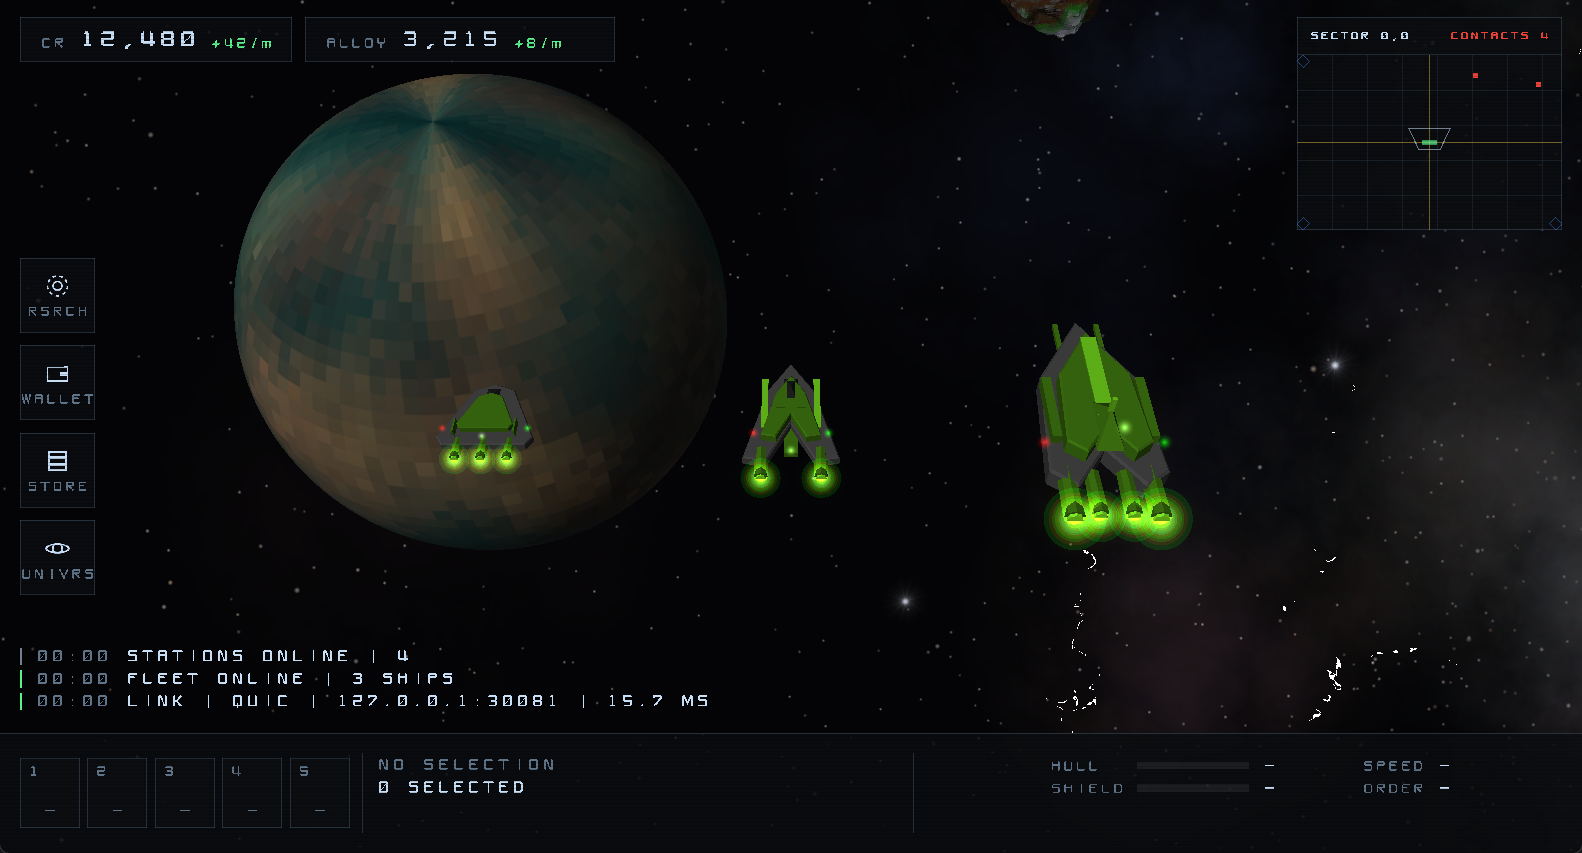
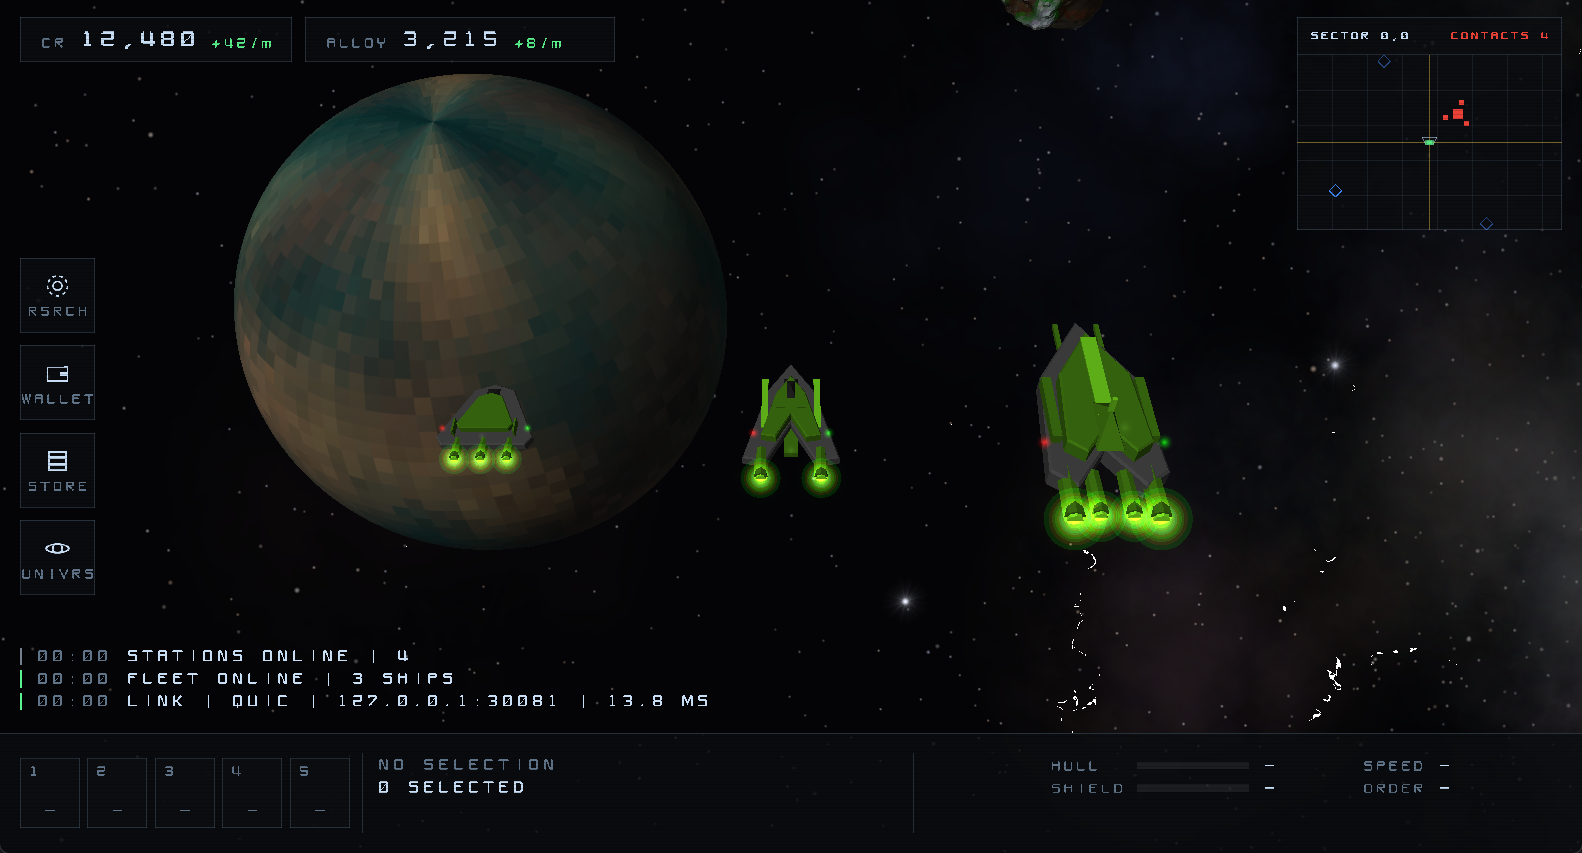
Stations slice 5: the minimap holds the nearest Vanguard station
HUD_MINIMAP_HALF_RANGE 1 400 -> 4 000 m, by the owner's ask on review: a station the player is
meant to fly to should read on the map as a distance, not only as a direction clamped to an edge.
The work order, the slice plan and AGENTS.md record it; the boot screenshots are re-shot.

diff --git a/Outpost/ViewTuning.h b/Outpost/ViewTuning.h
@@ -404,7 +404,7 @@ inline constexpr float START_SPACING = 55.0f;
 
 // The hostile base and its patrol (Design/Archive/Hostiles.md 6). The station sits 1,202 m out on the
 // diagonal: inside the 2,000 m interest radius, so the base is subscribed from the first update and
-// the overview shows red immediately, and inside the minimap's 1,400 m half-range, so it has an edge
+// the overview shows red immediately, and well inside the minimap's half-range, so it has an edge
 // to be seen against. The farthest patrol point is 1,602 m out, still inside both.
 //
 // The ring clears the station's 251.77 m skin by 148 m, and its chords clear the station's center by
@@ -477,7 +477,16 @@ inline constexpr float HUD_MINIMAP_DOT_PX = 4.0f;
 // A structure reads bigger than a fighter without pretending to scale: to scale, a 500 m station is
 // 25 px, a quarter of the map for one base. Iconography beats cartography at 0.05 px per metre.
 inline constexpr float HUD_MINIMAP_STRUCTURE_DOT_PX = 8.0f;
-inline constexpr float HUD_MINIMAP_HALF_RANGE = 1400.0f; // metres from the camera target to the map's edge; wider than CAMERA_MAX_ZOOM sees
+// Metres from the camera target to the map's edge. It was 1 400 -- wider than CAMERA_MAX_ZOOM sees,
+// and enough to hold the Vandal base -- until the Vanguard stations existed: the nearest stands at
+// the pinned world's 3 500 m, and a mark that is clamped to the edge from the first frame says which
+// way to fly but never how far. At 4 000 the nearest station is inside the map from boot, by the
+// owner's ask, and the two farther ones (2 500-6 500 m from the star) are inside or clamped by
+// where the layout put them. What it costs is resolution: 140 px over 8 km is 57 m per pixel, so the
+// three starting hulls draw as one cluster and the patrol ring is a 7 px circle. The map is
+// iconography, not cartography (HUD_MINIMAP_STRUCTURE_DOT_PX says the same), and a station's
+// distance is the thing the map now answers that it could not before.
+inline constexpr float HUD_MINIMAP_HALF_RANGE = 4000.0f;
 // A station mark: a hollow diamond at a station of the layout, drawn from static content rather than
 // from a record, so it is there from the first frame however far away the station is. One past the
 // map's edge is clamped to the edge and dimmed rather than clipped like a dot -- direction honest,

diff --git a/AGENTS.md b/AGENTS.md
@@ -33,8 +33,9 @@ hull declares as livery -- the plating and the canopy are the model's own paint 
 be selected or ordered — the simulation refuses an order from the wrong faction and the client does
 not offer one. The government is here too: the starting solar system is laid out from a seed
 (`Game::LayOutSystem`, ADR 0037), and at each of its three planets stands a station of Core Vanguard
-Command, azure in the scene and a hollow diamond on the minimap from the first frame — clamped to
-the map's edge while it is out of range, because a mark is static content and not a record. A
+Command, azure in the scene and a hollow diamond on the minimap from the first frame — the nearest
+inside the 4 km half-range, a farther one clamped to the map's edge, because a mark is static
+content and not a record. A
 station is a Structure with a row in `World`'s station table (ADR 0038); the Vandal base is a row
 in the same table. The simulation can dock ships at one and scramble its garrison, and the client
 cannot yet ask it to: the tap, the refusal line and the debug key that provokes the Vanguard are

diff --git a/Design/Stations-slice-5.md b/Design/Stations-slice-5.md
@@ -143,7 +143,9 @@ a Vanguard station the player can see on the minimap as a mark and reach as an a
 **Screenshots**, at two window sizes, in the pull request:
 
 - the opening scene, with the pinned world where it was, a Vanguard mark on the minimap at its
-  bearing — clamped to the edge, since 3 500 m is past the map's 1 400 m half-range — and the
+  bearing — inside the map, since `HUD_MINIMAP_HALF_RANGE` widens to 4 000 m in this slice so that a
+  station the player is meant to fly to reads as a distance and not only a direction (the owner's
+  ask on review); the other two marks inside or clamped by where the layout put them — and the
   `STATIONS ONLINE | 4` line in the log beside `FLEET ONLINE | 3 SHIPS`;
 - the fleet arrived at a Vanguard station: the azure structure in the scene, its filled blue dot
   on the minimap over the mark, `CONTACTS` unchanged by it.

diff --git a/Design/Stations-slice-plan.md b/Design/Stations-slice-plan.md
@@ -402,7 +402,10 @@ radius, no threat scan, no proximity trigger; the NPC reads exactly two things i
 record. Built as planned, with two things the plan did not spell out: the asteroid field draws
 different numbers from `BODY_START_SEED` once the worlds stop drawing from it, so the rocks move
 under this slice while the worlds and the stations do not; and `STATIONS ONLINE` counts every
-station row, the Vandal base included, so it reads 4.
+station row, the Vandal base included, so it reads 4. And one thing review asked for: the
+minimap's half-range widens from 1 400 m to 4 000 m, so the nearest Vanguard station is on the map
+from boot rather than a mark clamped to its edge -- design §9.3's "beyond the map's 1 400 m
+half-range" describes the map as it was.
 
 **Layer:** `Outpost`. **Depends on:** 1, 2. **Blocks:** 6.
 
